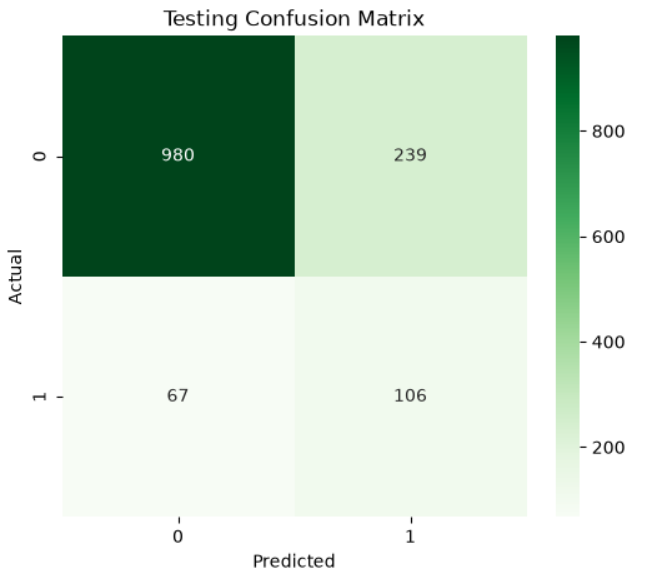
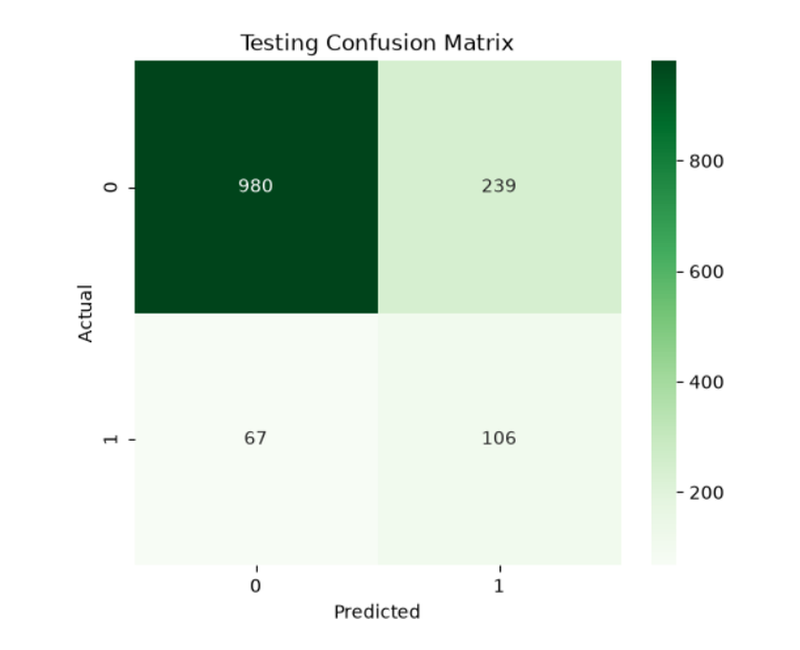
Standardize all model confusion matrix images and dataset plots to identical canvas dimensions

diff --git a/README.md b/README.md
@@ -46,9 +46,8 @@ To mirror operational forecasting reality and prevent temporal autocorrelation l
 * **Testing Set (2023–2025)**: 1,392 soundings held out for final unbiased evaluation.
 
 <p align="center">
-  <img src="catboost/results/images/Class_Distribution.png" height="260" alt="Class Distribution" />
-  &nbsp;&nbsp;
-  <img src="catboost/results/images/Missing_Value_Percentage.png" height="260" alt="Missing Values" />
+  <img src="catboost/results/images/Class_Distribution.png" width="48%" alt="Class Distribution" />
+  <img src="catboost/results/images/Missing_Value_Percentage.png" width="48%" alt="Missing Values" />
 </p>
 
 ---
@@ -111,14 +110,12 @@ Evaluated on the held-out **2023–2025 test set** (1,392 unseen soundings):
 ### 🎯 Model Confusion Matrices
 
 <p align="center">
-  <img src="catboost/notebooks/images/Final_Confusion_Matrix.png" height="280" alt="CatBoost Confusion Matrix" />
-  &nbsp;&nbsp;&nbsp;&nbsp;
-  <img src="other_models/lightgbm/notebooks/images/Confusion_Matrix.png" height="280" alt="LightGBM Confusion Matrix" />
+  <img src="catboost/notebooks/images/Final_Confusion_Matrix.png" width="48%" alt="CatBoost Confusion Matrix" />
+  <img src="other_models/lightgbm/notebooks/images/Confusion_Matrix.png" width="48%" alt="LightGBM Confusion Matrix" />
 </p>
 <p align="center">
-  <img src="other_models/xgboost/notebooks/images/Confusion_Matrix.png" height="280" alt="XGBoost Confusion Matrix" />
-  &nbsp;&nbsp;&nbsp;&nbsp;
-  <img src="other_models/ensemble/notebooks/images/Confusion_Matrix.png" height="280" alt="Ensemble Confusion Matrix" />
+  <img src="other_models/xgboost/notebooks/images/Confusion_Matrix.png" width="48%" alt="XGBoost Confusion Matrix" />
+  <img src="other_models/ensemble/notebooks/images/Confusion_Matrix.png" width="48%" alt="Ensemble Confusion Matrix" />
 </p>
 
 ### 💡 Why CatBoost Was Selected as the Final Model
